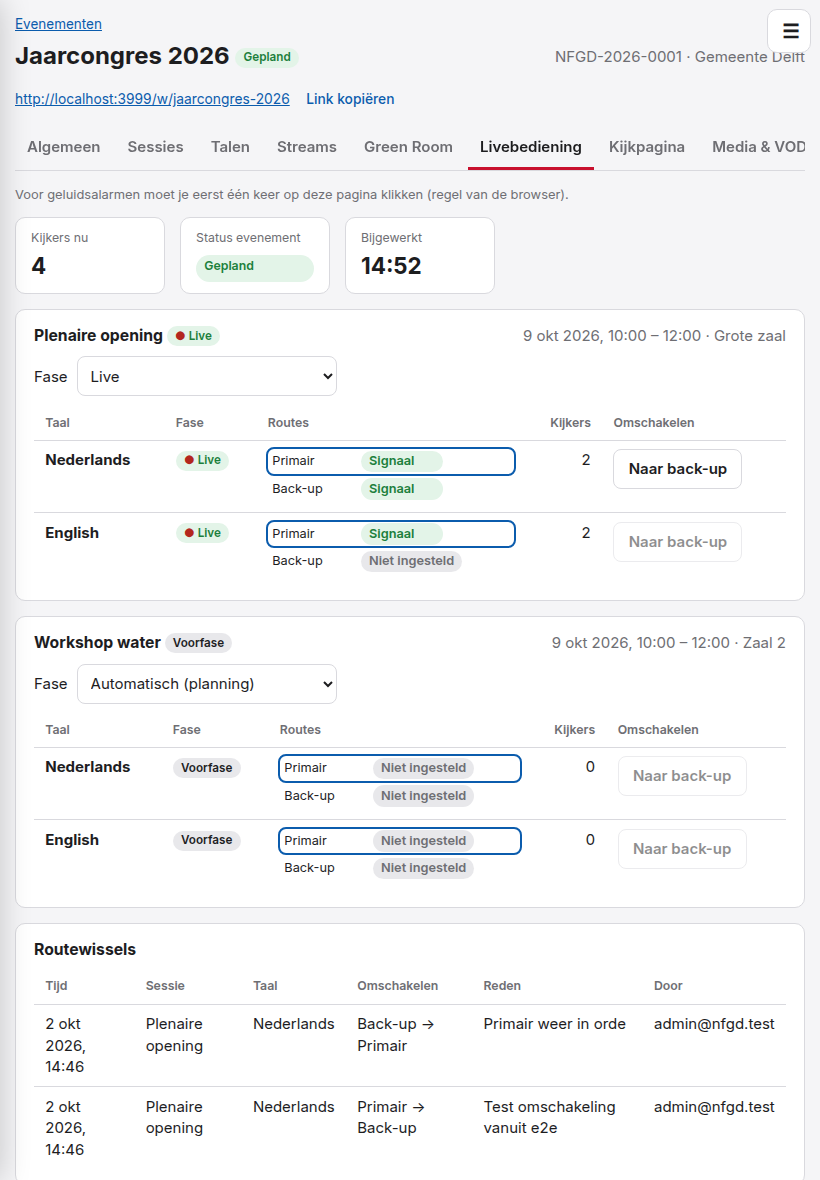
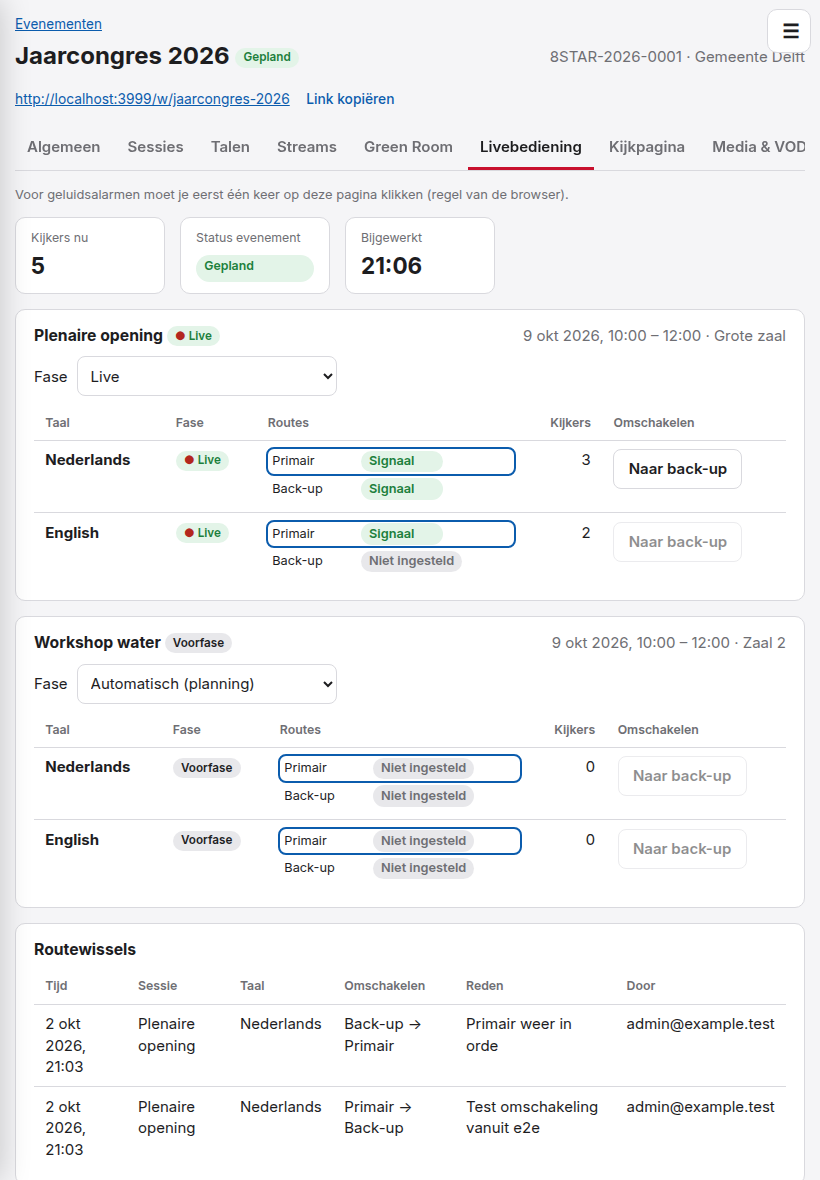
New screenshots with the new player, platform name 8star by default
Claude-Session: https://claude.ai/code/session_01XJMyAo8fz5HTjHWdhDnrCz

diff --git a/test/rights.test.js b/test/rights.test.js
@@ -8,15 +8,15 @@ let t, admin;
 test.before(async () => {
   t = await start();
   admin = t.client();
-  assert.equal((await admin.login("admin@nfgd.test", "admin-password-1")).status, 200);
+  assert.equal((await admin.login("admin@example.test", "admin-password-1")).status, 200);
 });
 test.after(() => t.stop());
 
 test("sign-in: wrong password, missing CSRF token and cross-site requests are refused", async () => {
   const c = t.client();
-  assert.equal((await c.login("admin@nfgd.test", "wrong-password")).status, 401);
+  assert.equal((await c.login("admin@example.test", "wrong-password")).status, 401);
   // A session without the CSRF token cannot change anything.
-  const ok = await c.login("admin@nfgd.test", "admin-password-1");
+  const ok = await c.login("admin@example.test", "admin-password-1");
   assert.equal(ok.status, 200);
   const res = await fetch(t.base + "/api/admin/tenants", {
     method: "POST",
@@ -28,8 +28,8 @@ test("sign-in: wrong password, missing CSRF token and cross-site requests are re
   assert.equal(cross.status, 403);
   // Locked out after 10 failures from the same address.
   const d = t.client();
-  for (let i = 0; i < 10; i++) await d.login("nobody@nfgd.test", "nope-nope-nope");
-  assert.equal((await d.login("nobody@nfgd.test", "nope-nope-nope")).status, 429);
+  for (let i = 0; i < 10; i++) await d.login("nobody@example.test", "nope-nope-nope");
+  assert.equal((await d.login("nobody@example.test", "nope-nope-nope")).status, 429);
 });
 
 test("roles: technician and content manager only get their own functions", async () => {
@@ -41,14 +41,14 @@ test("roles: technician and content manager only get their own functions", async
     config: { ingestUrl: "rtmp://in/live", streamKey: "very-secret", playbackUrl: "https://cdn.test/a.m3u8" },
   });
   for (const [email, role] of [
-    ["tech@nfgd.test", "technician"],
-    ["content@nfgd.test", "content"],
+    ["tech@example.test", "technician"],
+    ["content@example.test", "content"],
   ])
     assert.equal((await admin.post("/api/admin/users", { email, role, password: "password-1234" })).status, 200);
   const tech = t.client(),
     content = t.client();
-  await tech.login("tech@nfgd.test", "password-1234");
-  await content.login("content@nfgd.test", "password-1234");
+  await tech.login("tech@example.test", "password-1234");
+  await content.login("content@example.test", "password-1234");
 
   // Technician: streams and live yes, page/forms/users no.
   assert.equal((await tech.get("/api/admin/events/" + ev.event.id + "/live")).status, 200);
@@ -74,7 +74,7 @@ test("roles: technician and content manager only get their own functions", async
 
   // Disabling a user ends their session at once.
   const users = (await admin.get("/api/admin/users")).data;
-  await admin.patch("/api/admin/users/" + users.find((u) => u.email === "tech@nfgd.test").id, { active: false });
+  await admin.patch("/api/admin/users/" + users.find((u) => u.email === "tech@example.test").id, { active: false });
   assert.equal((await tech.get("/api/admin/events")).status, 401);
 });
 
@@ -102,7 +102,7 @@ test("resellers only see their own environment", async () => {
   const ev = (await r.post("/api/admin/events", { title: "Reseller event", customerId: own.id })).data;
   assert.equal(ev.event.tenantId, reseller.id);
   assert.match(ev.event.reference, /^RESELL-\d{4}-0001$/);
-  // Reseller sees only its own users and audit lines; NFGD sees both.
+  // Reseller sees only its own users and audit lines; the platform sees both.
   const users = (await r.get("/api/admin/users")).data;
   assert.ok(users.every((u) => u.tenantId === reseller.id));
   const audit = (await r.get("/api/admin/audit")).data;

diff --git a/src/auth.js b/src/auth.js
@@ -2,12 +2,12 @@
 // Staff sign-in, sessions, roles and environment (tenant) scoping.
 //
 // Roles:
-//   admin       platform administrator (NFGD environment) or reseller
+//   admin       platform administrator (platform environment) or reseller
 //               administrator (reseller environment)
 //   technician  streams, Green Room, live control and phases
 //   content     watch page, templates, media, registration forms,
 //               registrations and VOD
-// NFGD (the platform environment) sees every environment; a reseller only
+// the platform environment sees every environment; a reseller only
 // its own. Every lookup of a tenant-owned record goes through canSee().
 const { token, verifySecret, sha256 } = require("./util");
 const { fail, cookies, cookie } = require("./http");
@@ -124,7 +124,7 @@ function need(user, permission) {
   if (!user) fail(401, "Please sign in.");
   if (permission && !can(user, permission)) fail(403, "You do not have permission for this action.");
 }
-// NFGD sees all environments; a reseller only its own.
+// The platform sees all environments; a reseller only its own.
 const canSee = (user, tenantId) => Boolean(user && (user.platform || user.tenantId === tenantId));
 // SQL fragment + parameter limiting a query to the user's environment.
 const scope = (user, column = "tenant_id") =>

diff --git a/test/monitor.test.js b/test/monitor.test.js
@@ -50,7 +50,7 @@ test("usage: live minutes only for the active route of a public live session; te
   const t = await start();
   try {
     const admin = t.client();
-    await admin.login("admin@nfgd.test", "admin-password-1");
+    await admin.login("admin@example.test", "admin-password-1");
     let ev = (await admin.post("/api/admin/events", {
       title: "Gebruik",
       startAt: new Date(Date.now() - 3600e3).toISOString(),
@@ -103,7 +103,7 @@ test("usage: live minutes only for the active route of a public live session; te
     assert.equal(usage.events[0].plays, 2);
     const xlsx = await admin.get("/api/admin/usage/export?format=xlsx&event=" + ev.event.id);
     assert.equal(xlsx.status, 200);
-    assert.match(xlsx.headers.get("content-disposition"), /GEBRUIK|NFGD-\d{4}-0001_\d{4}-\d{2}-\d{2}_\d{4}-\d{2}-\d{2}\.xlsx/);
+    assert.match(xlsx.headers.get("content-disposition"), /GEBRUIK|8STAR-\d{4}-0001_\d{4}-\d{2}-\d{2}_\d{4}-\d{2}-\d{2}\.xlsx/);
 
     // Signal loss of the active route raises the alarm in live control.
     playlists["/a.m3u8"] = media(2, true);

diff --git a/public/watch.css b/public/watch.css
@@ -378,6 +378,10 @@ body.has-bg {
   background: linear-gradient(transparent, rgba(0, 0, 0, 0.78));
   color: #fff;
   transition: opacity 0.2s;
+  pointer-events: none;
+}
+.w-ctl > * {
+  pointer-events: auto;
 }
 .w-player.idle .w-ctl {
   opacity: 0;
@@ -514,7 +518,7 @@ body.has-bg {
 }
 .w-big-play {
   position: absolute;
-  z-index: 3;
+  z-index: 5;
   left: 50%;
   top: 50%;
   transform: translate(-50%, -50%);
@@ -602,6 +606,15 @@ body.has-bg {
   border-radius: 0;
 }
 @media (max-width: 560px) {
+  .w-big-play {
+    width: 56px;
+    height: 56px;
+    top: 40%;
+  }
+  .w-big-play svg {
+    width: 32px;
+    height: 32px;
+  }
   .w-volume {
     display: none;
   }

diff --git a/src/app.js b/src/app.js
@@ -23,7 +23,7 @@ function config(env = process.env) {
     dataDir: env.DATA_DIR || path.join(__dirname, "..", "data"),
     adminEmail: String(env.ADMIN_EMAIL || "admin@example.com").trim().toLowerCase(),
     adminPassword: env.ADMIN_PASSWORD || "",
-    platformName: String(env.PLATFORM_NAME || "NFGD").trim() || "NFGD",
+    platformName: String(env.PLATFORM_NAME || "8star").trim() || "8star",
     publicUrl: String(env.PUBLIC_URL || "").replace(/\/+$/, ""),
     trustProxy: bool(env.TRUST_PROXY, false),
     cookieSecure: String(env.COOKIE_SECURE || "auto").toLowerCase(),

diff --git a/test/helpers.js b/test/helpers.js
@@ -9,7 +9,7 @@ const { createApp } = require("../src/app");
 async function start(config = {}) {
   const dataDir = fs.mkdtempSync(path.join(os.tmpdir(), "8star-stream-test-"));
   const app = await createApp({
-    env: { ADMIN_EMAIL: "admin@nfgd.test", ADMIN_PASSWORD: "admin-password-1", DATA_DIR: dataDir, MONITOR: "false" },
+    env: { ADMIN_EMAIL: "admin@example.test", ADMIN_PASSWORD: "admin-password-1", DATA_DIR: dataDir, MONITOR: "false" },
     config: { dataDir, monitor: false, ...config },
   });
   const port = await app.listen(0, "127.0.0.1");

diff --git a/test/watch.test.js b/test/watch.test.js
@@ -11,7 +11,7 @@ const state = (c, q = "") => c.get("/api/watch/" + ev.event.slug + "/state" + q)
 test.before(async () => {
   t = await start();
   admin = t.client();
-  await admin.login("admin@nfgd.test", "admin-password-1");
+  await admin.login("admin@example.test", "admin-password-1");
   ev = (await admin.post("/api/admin/events", { title: "Kijk test", startAt: new Date(Date.now() - 3600e3).toISOString(), endAt: new Date(Date.now() + 3600e3).toISOString() })).data;
   nl = ev.languages[0].id;
   sess = ev.sessions[0].id;

diff --git a/test/pages.test.js b/test/pages.test.js
@@ -10,7 +10,7 @@ let t, admin;
 test.before(async () => {
   t = await start({ frameAncestors: "https://www.klant.nl" });
   admin = t.client();
-  await admin.login("admin@nfgd.test", "admin-password-1");
+  await admin.login("admin@example.test", "admin-password-1");
 });
 test.after(() => t.stop());
 

diff --git a/README.md b/README.md
@@ -6,7 +6,7 @@ Provider-agnostic: any encoder and streaming service that delivers HLS works (Wo
 
 Built with Node.js. No external database: everything is stored in one Docker volume (SQLite).
 
-![Watch page during the live phase, with language choice and two rooms](docs/screenshots/watch-live.png)
+![Watch page during the live phase, with the language menu in the player](docs/screenshots/watch-live.png)
 
 ## Features
 
@@ -40,6 +40,8 @@ Built with Node.js. No external database: everything is stored in one Docker vol
 | ![Watch page editor with variables](docs/screenshots/page-editor.png)     | ![Registration form builder](docs/screenshots/registration-form.png)   |
 | **Dashboard**                                                              | **Usage**                                                              |
 | ![Dashboard](docs/screenshots/dashboard.png)                               | ![Usage per event, session, language and route](docs/screenshots/usage.png) |
+| **Player with subtitles and language menu**                                | **Player on a phone**                                                  |
+| ![Player with subtitle choice](docs/screenshots/player-subtitles.png)      | ![Player on a phone with English subtitles](docs/screenshots/player-mobile.png) |
 
 _All names and events in the screenshots are fictional; the video is a generated test signal._
 
@@ -60,7 +62,7 @@ services:
     environment:
       ADMIN_EMAIL: admin@example.com
       ADMIN_PASSWORD: choose-a-long-password
-      PLATFORM_NAME: NFGD
+      PLATFORM_NAME: 8star
       TRUST_PROXY: "true"
     volumes:
       - 8star_stream_data:/data
@@ -96,7 +98,7 @@ The named volume keeps all data when the container is rebuilt. Never remove the 
 | ----------------- | ------------------ | ------------------------------------------------------------------------------------------------------------ |
 | `ADMIN_EMAIL`     | `admin@example.com`| First platform administrator (first start only)                                                              |
 | `ADMIN_PASSWORD`  | —                  | Password of that administrator, at least 12 characters (first start only)                                    |
-| `PLATFORM_NAME`   | `NFGD`             | Name of the platform environment; also the prefix of project references (`NFGD-2026-0001`)                   |
+| `PLATFORM_NAME`   | `8star`            | Name of the platform environment; also the prefix of project references (`8STAR-2026-0001`)                   |
 | `PUBLIC_URL`      | from the request   | Public address used in watch links and embed codes, e.g. `https://live.example.com`                          |
 | `TRUST_PROXY`     | `false`            | `true` behind a reverse proxy (Nginx Proxy Manager): use `X-Forwarded-*` for address, host and HTTPS          |
 | `COOKIE_SECURE`   | `auto`             | `auto` sets the Secure flag on HTTPS; `true`/`false` to force                                                |

diff --git a/CHANGELOG.md b/CHANGELOG.md
@@ -5,13 +5,14 @@
 - Own player controls: LIVE badge and "go to live", seek bar, volume, speed, quality (when the stream has several), full screen, keyboard and touch
 - Language choice inside the player; the player stays in full screen when the language changes
 - Subtitles for recordings: WebVTT or SRT per language (up to 12 tracks), uploaded in the admin and shown by the player; the viewer's choice is remembered
+- The default platform name is now `8star` (was a company name); set `PLATFORM_NAME` to change it
 - Subtitle tracks that an HLS stream contains are listed too (not tested with a real stream)
 
 ## 0.1.0 — first version ("core first")
 
-First version of the livestream platform, built from the NFGD requirements (Streaming Manager, version 1.0). Covers the core of priority 1:
+First version of the livestream platform, built from a written set of requirements. Covers the core of priority 1:
 
-- Environments for NFGD and resellers (create, block, archive), customers with contacts, account manager and default branding, users with three roles
+- Environments for the platform owner and resellers (create, block, archive), customers with contacts, account manager and default branding, users with three roles
 - Events with automatic, editable project reference, permanent watch link and embed code, days, sessions and rooms, copying of events and sessions
 - Phases by schedule or by hand; Test status with Green Room
 - Languages with their own streams, media, page texts and VOD; switching without reloading; direct language links; copying a language

diff --git a/docs/architecture.md b/docs/architecture.md
@@ -21,7 +21,7 @@ public/watch.html    watch page (watch.js, hls.js from public/vendor)
 
 ## Data
 
-- `tenants` — the platform (NFGD) and reseller environments. Every customer, user, event, media item and template belongs to one; every admin query goes through `canSee`/`scope`, and records outside the user's environment answer 404.
+- `tenants` — the platform and reseller environments. Every customer, user, event, media item and template belongs to one; every admin query goes through `canSee`/`scope`, and records outside the user's environment answer 404.
 - `events` → `sessions`, `languages`; `variants` per session × language (active route, pre/after media, VOD); `routes` per session × language × slot (primary/backup).
 - `pages` per event × phase × language with draft and published HTML.
 - `forms` per event; `registrations` keep a copy of the fields they were made with, so they stay readable when the form changes.
